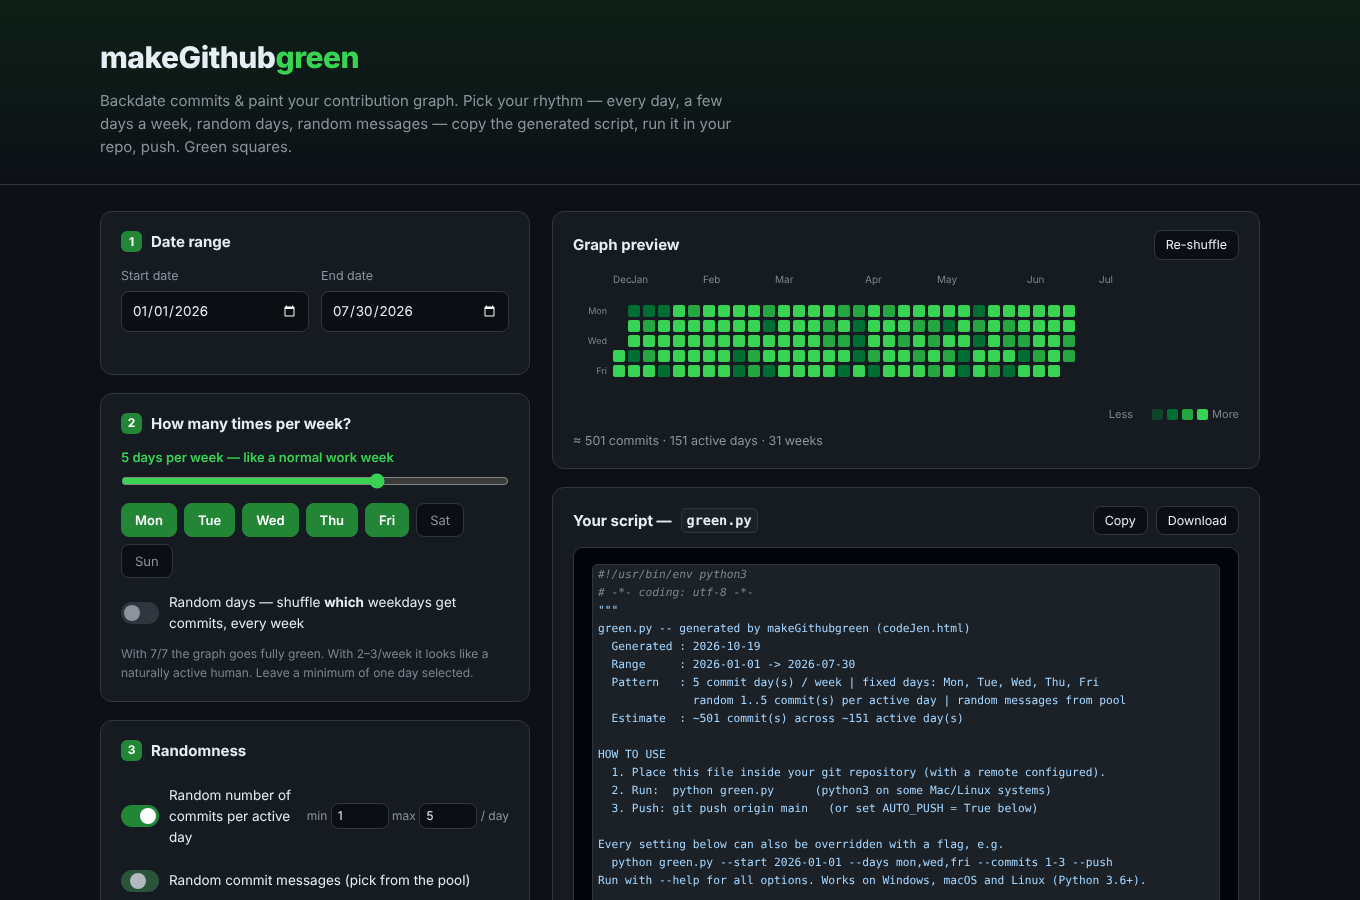
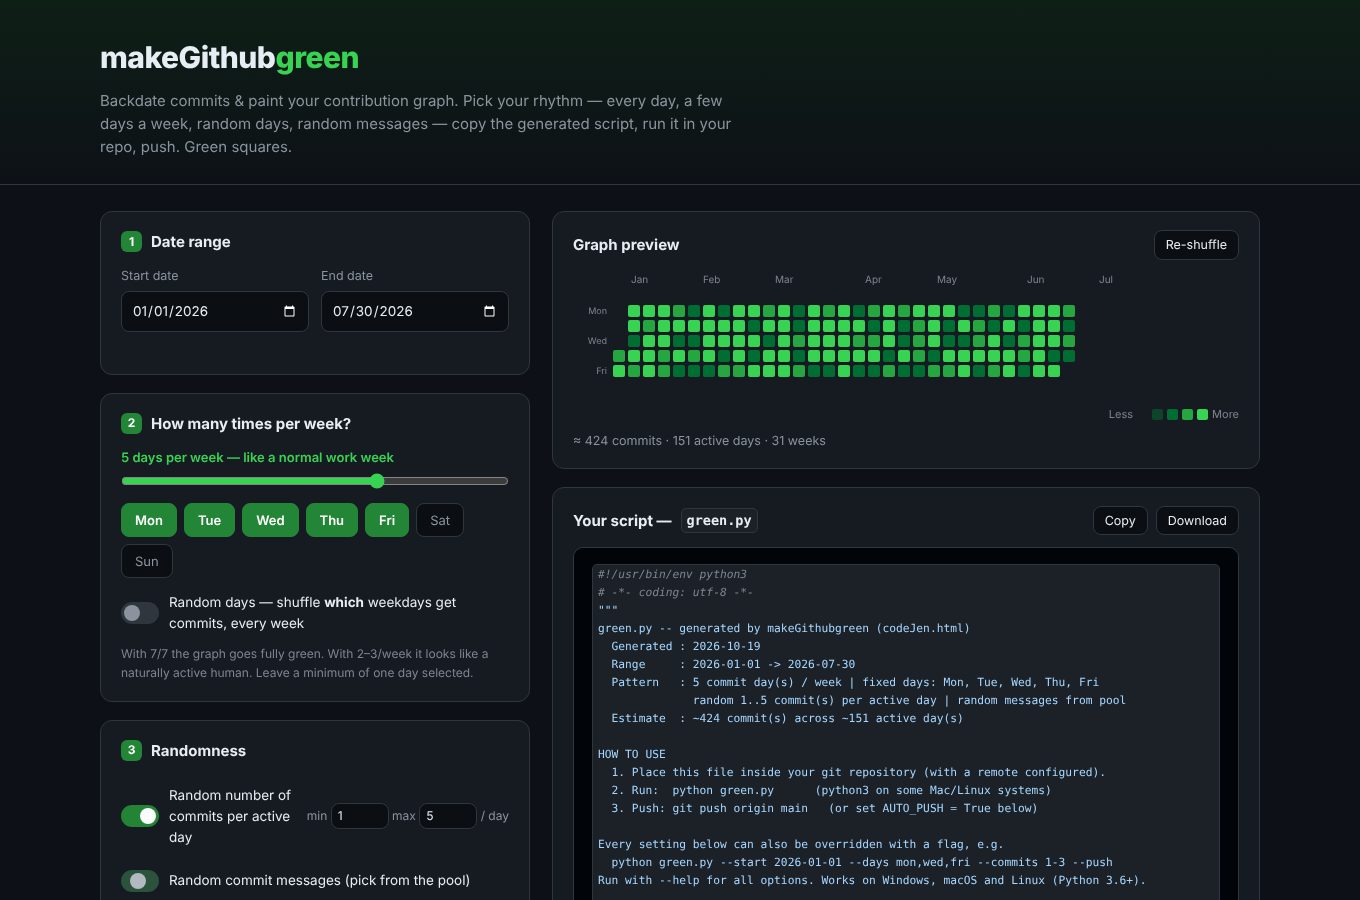
fix: skip one-week month labels that overlap in the graph preview
Claude-Session: https://claude.ai/code/session_013iuw2n5vpE67pTHVTfRGNT

Changed region(s): [[0.4324, 0.3422, 0.8029, 0.4356], [0.4324, 0.4667, 0.6176, 0.4978]]

diff --git a/script.js b/script.js
@@ -485,6 +485,9 @@ function renderPreview(cfg) {
   starts.forEach((st, idx) => {
     const next = idx + 1 < starts.length ? starts[idx + 1] : monthByCol.length;
     const span = Math.max(1, next - st);
+    // A one-week month followed by another label has no room for its text
+    // (e.g. a range starting in the last days of Dec) — skip it like GitHub does.
+    if (span < 2 && next < monthByCol.length) return;
     const s = document.createElement('span');
     s.textContent = new Date(2026, monthByCol[st], 1)
       .toLocaleString('en-US', { month: 'short' });
